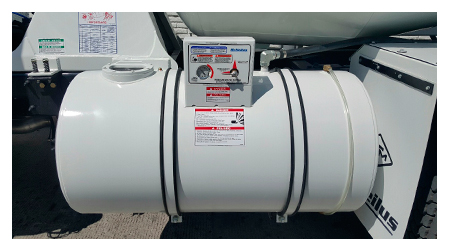
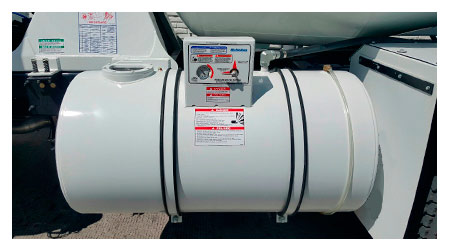
Sellos de marca
Borrar sellos de marca

diff --git a/public/partes/tambor.html b/public/partes/tambor.html
@@ -13,7 +13,7 @@
     <div class="row">
         <div class="col-md-6 medir">
             <div class="form-group nueva">
-                <p>Medir B | <span style="color:#ff0000;">198.9</span></p>
+                <p>Medir B | <span style="color:#ff0000;">198.9" | 5.05 m</span></p>
                 <hr>
                 <div class="btn-group btn-group-horizontal">
                     <label class="btn active">
@@ -25,7 +25,7 @@
                 </div>
             </div>
             <div class="form-group nueva">
-                <p>Medir C | <span style="color:#ff0000;">224.2</span></p>
+                <p>Medir C | <span style="color:#ff0000;">224.2" | 5.69 m</span></p>
                 <hr>
                 <div class="btn-group btn-group-horizontal">
                     <label class="btn active">
@@ -37,7 +37,7 @@
                 </div>
             </div>
             <div class="form-group nueva">
-                <p>Medir D | <span style="color:#ff0000;">25.3</span></p>
+                <p>Medir D | <span style="color:#ff0000;">25.3" | 0.64 m</span></p>
                 <hr>
                 <div class="btn-group btn-group-horizontal">
                     <label class="btn active">
@@ -49,7 +49,7 @@
                 </div>
             </div>
             <div class="form-group nueva">
-                <p>Medir J | <span style="color:#ff0000;">33.4</span></p>
+                <p>Medir J | <span style="color:#ff0000;">33.4" | 0.84 m</span></p>
                 <hr>
                 <div class="btn-group btn-group-horizontal">
                     <label class="btn active">
@@ -61,7 +61,9 @@
                 </div>
             </div>
             <div class="form-group nueva">
-                <p>Medir Perímetro</p>
+                <p>Medir Perímetro
+                    <!--| <span style="color:#ff0000;">33.4" | 0.84 m--></span>
+                </p>
                 <hr>
                 <div class="btn-group btn-group-horizontal">
                     <label class="btn active">
@@ -73,7 +75,7 @@
                 </div>
             </div>
             <div class="form-group nueva">
-                <p>Medir Ext. Tambor</p>
+                <p>Medir Ext. Tambor | <span style="color:#ff0000;">94.5" | 2.4 m</span></p>
                 <hr>
                 <div class="btn-group btn-group-horizontal">
                     <label class="btn active">
@@ -118,7 +120,7 @@
     <h3 class="num">2</h3>
     <h4 class="medir planta">MEDIR EN PLANTA</h4>
     <h2 class="especifica"><i class="fa fa-chevron-right" aria-hidden="true"></i> Verificación de escotilla</h2>
-    <p class="testa">Método: Se ubica la escotilla que se encuentre sellada y que cumpla con las dimensiones mínimas de 381mm de ancho y 533mm de largo. instrumento: flexómetro.</p>
+    <p class="testa">Método: Se ubica la escotilla que se encuentre sellada y que cumpla con las dimensiones mínimas de 381 mm de ancho y 533 mm de largo. instrumento: flexómetro.</p>
     <div class="form-group nueva">
         <div class="btn-group btn-group-horizontal">
             <label class="btn active">
@@ -152,7 +154,7 @@
     <h3 class="num">4</h3>
     <h4 class="medir planta">MEDIR EN PLANTA</h4>
     <h2 class="especifica"><i class="fa fa-chevron-right" aria-hidden="true"></i> Ángulo de inclinación del tambor</h2>
-    <p class="testa">Método: PARA OLLAS DE 8m3 EL ANGULO DEBE SER DE 12.1° +,- .5°</p>
+    <p class="testa">Método: PARA OLLAS DE 8 m<sup>3</sup> EL ANGULO DEBE SER DE 12.1° , +/- .5°</p>
     <div class="form-group nueva">
         <div class="btn-group btn-group-horizontal">
             <label class="btn active">
@@ -170,7 +172,7 @@
     <h4 class="medir planta">MEDIR EN PLANTA</h4>
     <h2 class="especifica"><i class="fa fa-chevron-right" aria-hidden="true"></i> Fijación del tambor</h2>
     <img src="img/tambor3.png" alt="" title="" class="img-responsive sombra margen center-block">
-    <p class="testa">Método: Revisar en la planta que la parte frontal del tambor esté completamente atornillada al reductor con un torque de 215 lb.<br>Instrumento: torquímetro</p>
+    <p class="testa">Método: Revisar en la planta que la parte frontal del tambor esté completamente atornillada al reductor con un torque de 215 lb (97.52 Kg)<br>Instrumento: torquímetro</p>
     <div class="form-group nueva">
         <div class="btn-group btn-group-horizontal">
             <label class="btn active">
@@ -215,7 +217,7 @@
 <div class="form-group">
     <h3 class="num">7</h3>
     <h4 class="medir ambos">MEDIR EN AMBOS</h4>
-    <h2 class="especifica"><i class="fa fa-chevron-right" aria-hidden="true"></i> La excentricidad no debe de ser menor a 3/4" a 6 RMP</h2>
+    <h2 class="especifica"><i class="fa fa-chevron-right" aria-hidden="true"></i> La excentricidad no debe de ser menor a 3/4" a 6 RPM</h2>
     <img src="img/tambor5.png" alt="" title="" class="img-responsive sombra margen center-block" data-toggle="modal" data-target="#myModal">
     <p class="testa">Método: Verificar con un escantillón o calibrador la distancia entre el tambor y uno de los marcos laterales.</p>
     <div class="form-group nueva">
@@ -250,7 +252,7 @@
 <div class="form-group">
     <h3 class="num">9</h3>
     <h4 class="medir ambos">MEDIR EN AMBOS</h4>
-    <h2 class="especifica"><i class="fa fa-chevron-right" aria-hidden="true"></i> La pista debe de estar sobre el rodillo con una inclinación la cual en la parte superior debe de ser de .12".</h2>
+    <h2 class="especifica"><i class="fa fa-chevron-right" aria-hidden="true"></i> La pista debe de estar sobre el rodillo con una inclinación la cual en la parte superior debe de ser de .12"</h2>
     <p class="testa">Método: Medir con una laina o un calibrador.</p>
     <div class="form-group nueva">
         <div class="btn-group btn-group-horizontal">
@@ -268,7 +270,7 @@
     <h3 class="num">10</h3>
     <h4 class="medir ambos">MEDIR EN AMBOS</h4>
     <h2 class="especifica"><i class="fa fa-chevron-right" aria-hidden="true"></i> Cuenta con kit de refuerzo para extender la vida de las aspas en el interior del tambor.</h2>
-    <p class="testa">Método: SOLICITAR PLANO DE POSICIÓN DE ASPAS EN EL TAMBOR PARA REVISAR EL REFUERZO.</p>
+    <p class="testa">Método: Solicitar plano de posición de aspas en el tambor para revisar el refuerzo.</p>
     <p class="especi">SOLICITAR PLANO</p>
     <div class="form-group nueva">
         <div class="btn-group btn-group-horizontal">

diff --git a/public/partes/general.html b/public/partes/general.html
@@ -8,7 +8,7 @@
     <h3 class="num">18</h3>
     <h4 class="medir planta">MEDIR EN PLANTA</h4>
     <h2 class="especifica"><i class="fa fa-chevron-right" aria-hidden="true"></i> Guardas perimetrales</h2>
-    <p class="testa">Método: Verificar que en la periferia de la olla/camión no existan espacios mayores a 30cm sin guardas perimetrales.</p>
+    <p class="testa">Método: Verificar que en la periferia de la olla/camión no existan espacios mayores a 30 cm sin guardas perimetrales.</p>
     <div class="form-group nueva">
         <div class="btn-group btn-group-horizontal">
             <label class="btn active">
@@ -261,7 +261,7 @@
 <div class="form-group">
     <h3 class="num">21</h3>
     <h4 class="medir planta">MEDIR EN PLANTA</h4>
-    <h2 class="especifica"><i class="fa fa-chevron-right" aria-hidden="true"></i> Cumple el peso BRUTO VEHICULAR MÍNIMO</h2>
+    <h2 class="especifica"><i class="fa fa-chevron-right" aria-hidden="true"></i> Cumple el peso bruto vehicular mínimo</h2>
     <img src="img/general4.jpg" alt="" title="" class="img-responsive sombra margen center-block" data-toggle="modal" data-target="#general4">
     <div id="general4" class="modal fade" role="dialog">
         <div class="modal-dialog">
@@ -273,7 +273,7 @@
             </div>
         </div>
     </div>
-    <p class="testa">Método: 30,000 KG (66,000LBS)</p>
+    <p class="testa">Método: 30,000 Kg (66,138.679 lbs)</p>
     <div class="form-group nueva">
         <div class="btn-group btn-group-horizontal">
             <label class="btn active">
@@ -290,7 +290,7 @@
     <h3 class="num">21.1</h3>
     <h4 class="medir planta">MEDIR EN PLANTA</h4>
     <h2 class="especifica"><i class="fa fa-chevron-right" aria-hidden="true"></i> Cumple el peso de la olla del eje delantero</h2>
-    <p class="testa">Método: 9,000 KG</p>
+    <p class="testa">Método: 9,000 Kg (19,841.6 lbs)</p>
     <div class="form-group nueva">
         <div class="btn-group btn-group-horizontal">
             <label class="btn active">
@@ -307,7 +307,7 @@
     <h3 class="num">21.2</h3>
     <h4 class="medir planta">MEDIR EN PLANTA</h4>
     <h2 class="especifica"><i class="fa fa-chevron-right" aria-hidden="true"></i> Cumple el peso de la olla del eje trasero</h2>
-    <p class="testa">Método: 21,000 KG</p>
+    <p class="testa">Método: 21,000 Kg (46,297.075 lbs)</p>
     <div class="form-group nueva">
         <div class="btn-group btn-group-horizontal">
             <label class="btn active">
@@ -339,7 +339,7 @@
 <div class="form-group">
     <h3 class="num">22</h3>
     <h4 class="medir ambos">MEDIR EN AMBOS</h4>
-    <h2 class="especifica"><i class="fa fa-chevron-right" aria-hidden="true"></i> Revisar que laS mangueraS no rozaN con algo que pueda producir algun daño</h2>
+    <h2 class="especifica"><i class="fa fa-chevron-right" aria-hidden="true"></i> Revisar que las mangueras no rozan con algo que pueda producir algún daño</h2>
     <div class="form-group nueva">
         <div class="btn-group btn-group-horizontal">
             <label class="btn active">

diff --git a/public/partes/pedestaltrasero.html b/public/partes/pedestaltrasero.html
@@ -8,7 +8,7 @@
     <h3 class="num">12</h3>
     <h4 class="medir planta">MEDIR EN PLANTA</h4>
     <h2 class="especifica"><i class="fa fa-chevron-right" aria-hidden="true"></i> Fijación del pedestal trasero</h2>
-    <p class="testa">Método: Verificar que el pedestal trasero esté anclado a las varas del chasis mediante ángulos de sujeción y tornillería, con un torque de 375lb. instrumento: torquímetro </p>
+    <p class="testa">Método: Verificar que el pedestal trasero esté anclado a las varas del chasis mediante ángulos de sujeción y tornillería, con un torque de 375 lb (170.09 Kg) instrumento: torquímetro </p>
     <div class="form-group nueva">
         <div class="btn-group btn-group-horizontal">
             <label class="btn active">
@@ -58,7 +58,7 @@
 <div class="form-group">
     <h3 class="num">12.3</h3>
     <h4 class="medir planta">MEDIR EN PLANTA</h4>
-    <h2 class="especifica"><i class="fa fa-chevron-right" aria-hidden="true"></i> Debe de existir holgura entre LA PLACA DEL AÁNGULO DE SUGESIÓN DEL PEDESTAL y LA PLACA DEL ÁNGULO DEL CHASIS.</h2>
+    <h2 class="especifica"><i class="fa fa-chevron-right" aria-hidden="true"></i> Debe de existir holgura entre la placa del ángulo de sugeción del pedestal y la placa del ángulo del chasis.</h2>
     <p class="testa">Método: Realizar una inspección visual</p>
     <div class="form-group nueva">
         <div class="btn-group btn-group-horizontal">
@@ -75,8 +75,8 @@
 <div class="form-group">
     <h3 class="num">12.4</h3>
     <h4 class="medir planta">MEDIR EN PLANTA</h4>
-    <img src="img/escalera.jpg" alt="" title="" class="sombra">
     <h2 class="especifica"><i class="fa fa-chevron-right" aria-hidden="true"></i> Escalera y plataforma con puntos de sujeción</h2>
+    <img src="img/escalera.jpg" alt="" title="" class="sombra">
     <p class="testa">Método: Verificar que exista una escalera antiderrapante con su plataforma correspondiente. La escalera tendrá tres puntos de apoyo y tubo de seguridad en la plataforma con mecanismo propio.</p>
     <p class="especi">(EN CASO DE APLICAR)</p>
     <div class="form-group nueva">
@@ -87,6 +87,9 @@
             <label class="btn">
             <input type="radio" name='pedestal9' ng-model="formData.pedestal9" value="0"><i class="fa fa-circle-o fa-2x"></i><i class="fa fa-dot-circle-o fa-2x"></i><span> NO CUMPLE</span>
           </label>
+            <label class="btn">
+                <input type="radio" name='pedestal9' ng-model="formData.pedestal9" value="0"><i class="fa fa-circle-o fa-2x"></i><i class="fa fa-dot-circle-o fa-2x"></i><span> NO APLICA</span>
+              </label>
         </div>
     </div>
     <input type="text" class="form-control input-lg text-center" placeholder="Observaciones" ng-model="formData.pedestal9obs">

diff --git a/public/partes/pedestalfrontal.html b/public/partes/pedestalfrontal.html
@@ -10,7 +10,7 @@
     <h3 class="num">11</h3>
     <h4 class="medir planta">MEDIR EN PLANTA</h4>
     <h2 class="especifica"><i class="fa fa-chevron-right" aria-hidden="true"></i> Fijación del pedestal frontal</h2>
-    <p class="testa">Método: Verificar que el pedestal frontal esté anclado a las varas del chasis mediante ángulos de sujeción y tornillería, con un torque de 375lb. instrumento: torquímetro </p>
+    <p class="testa">Método: Verificar que el pedestal frontal esté anclado a las varas del chasis mediante ángulos de sujeción y tornillería, con un torque de 375 lb (170.09 Kg) instrumento: torquímetro </p>
     <p class="especi">Instrumento: torquímetro</p>
     <div class="form-group nueva">
         <div class="btn-group btn-group-horizontal">
@@ -61,7 +61,7 @@
 <div class="form-group">
     <h3 class="num">11.3</h3>
     <h4 class="medir planta">MEDIR EN PLANTA</h4>
-    <h2 class="especifica"><i class="fa fa-chevron-right" aria-hidden="true"></i> Debe de existir holgura entre LA PLACA DEL ÁNGULO DE SUGESIÓN DEL PEDESTAL y LA PLACA DEL ÁNGULO DEL CHASIS </h2>
+    <h2 class="especifica"><i class="fa fa-chevron-right" aria-hidden="true"></i> Debe de existir holgura entre la placa del ángulo de sugeción del pedestal y la placa del ángulo del chasis.</h2>
     <p class="testa">Método: Realizar una inspección visual</p>
     <div class="form-group nueva">
         <div class="btn-group btn-group-horizontal">

diff --git a/public/partes/lavado.html b/public/partes/lavado.html
@@ -58,7 +58,7 @@
             <input type="radio" name='lavado3' ng-model="formData.lavado3" value="0"><i class="fa fa-circle-o fa-2x"></i><i class="fa fa-dot-circle-o fa-2x"></i><span> NO CUMPLE</span>
             </label>
 
-            <label class="btn"></label>
+            <label class="btn">
             <input type="radio" name='lavado3' ng-model="formData.lavado3" value="0"><i class="fa fa-circle-o fa-2x"></i><i class="fa fa-dot-circle-o fa-2x"></i><span> NO APLICA</span>
             </label>
 
@@ -88,7 +88,7 @@
     <h3 class="num">17</h3>
     <h4 class="medir ambos">MEDIR EN AMBOS</h4>
     <h2 class="especifica"><i class="fa fa-chevron-right" aria-hidden="true"></i> Presión de tanques de agua (solo si es presurizado aplica)</h2>
-    <p class="testa">Método: Verificar que los sistemas a base de aire a presión no exceden los 551.58 kPa(80 psi)</p>
+    <p class="testa">Método: Verificar que los sistemas a base de aire a presión no exceden los 551.58 kpa (80 psi)</p>
     <div class="form-group nueva">
         <div class="btn-group btn-group-horizontal">
             <label class="btn active">

diff --git a/public/index.html b/public/index.html
@@ -53,7 +53,7 @@
     <div class="container" id="top">
         <div class="text-center intro">
             <img src="img/logo-imcyc.svg" alt="Certificación de OLLAS DE CONCRETO | Instituto Mexicano del Cemento y del Concreto A.C." title="Certificación de OLLAS DE CONCRETO | Instituto Mexicano del Cemento y del Concreto A.C." class="logo" />
-            <h1>CERTIFICACIÓN</h1>
+            <h1>SELLO DE CALIDAD</h1>
             <hr />
             <h2>REVOLVEDORAS DE CONCRETO</h2>
             <h3 class="seccion {{seccion}}">{{seccion}}</h3>
